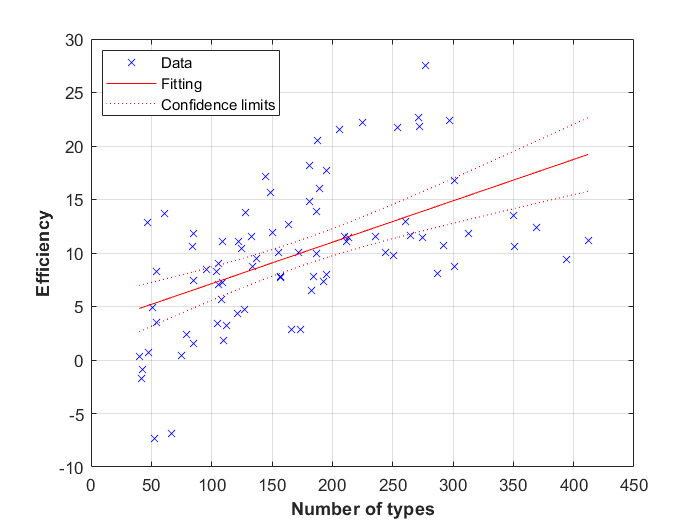
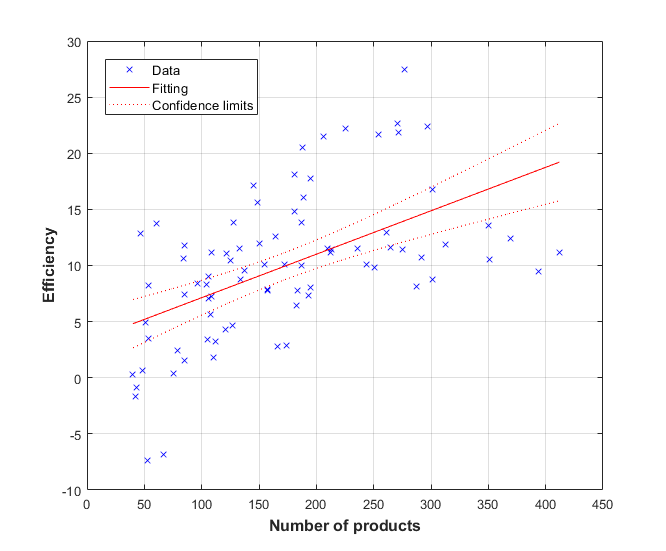
10월 22일 number of products랑 효율공식 반영

diff --git a/OffsetPrinting.tex b/OffsetPrinting.tex
@@ -451,14 +451,14 @@ Since the two groups satisfy normality and homoscedasticity, we verified whether
 
 Since the $p$-value is below the significance level(0.05), the null hypothesis $(H_{0})$ is rejected and the alternative hypothesis $(H_{1})$ is accepted. We say that the difference between the two groups can be significant.
 
-Finally, we check the efficiency over the number of types.
-We see that the efficiency increases as the number of types increases in Figure \ref{fig:LinearFitting}.
+Finally, we check the efficiency over the number of products which is the size of $I$(cf. Section 4).
+We see that the efficiency increases as the number of products increases in Figure \ref{fig:LinearFitting}.
 For each 82 samples, we calculated the efficiency as the follow formula.
 \begin{equation}
-	\textrm{Efficiency} = \left[\frac{\textrm{Improvement~Total~Cost}}{\textrm{Previous~Total~Cost}}-1\right]\times 100
+	\textrm{Efficiency} = \left[1-\frac{\textrm{Improvement~Total~Cost}}{\textrm{Previous~Total~Cost}}\right]\times 100
 \end{equation}
-The result of the linear fitting shows that the efficiency and the number of types have a positive correlation.
-Thus, we see that the improved algorithms have better results in many number of types.
+The result of the linear fitting shows that the efficiency and the number of products have a positive correlation.
+Thus, we see that the improved algorithms have better results in many number of products.
 This suggests that the algorithm fits well into small quantity batch productions.
 
 
@@ -466,7 +466,7 @@ This suggests that the algorithm fits well into small quantity batch productions
 	\centering
 	%	\includegraphics[width=\linewidth]{Comparing.pdf}
 	\includegraphics[width=9cm]{Graph_3.png}
-	\caption{The linear fitting for the efficiency over the number of types}
+	\caption{The linear fitting for the efficiency over the number of products}
 	\label{fig:LinearFitting}       % Give a unique label
 \end{figure}
 
